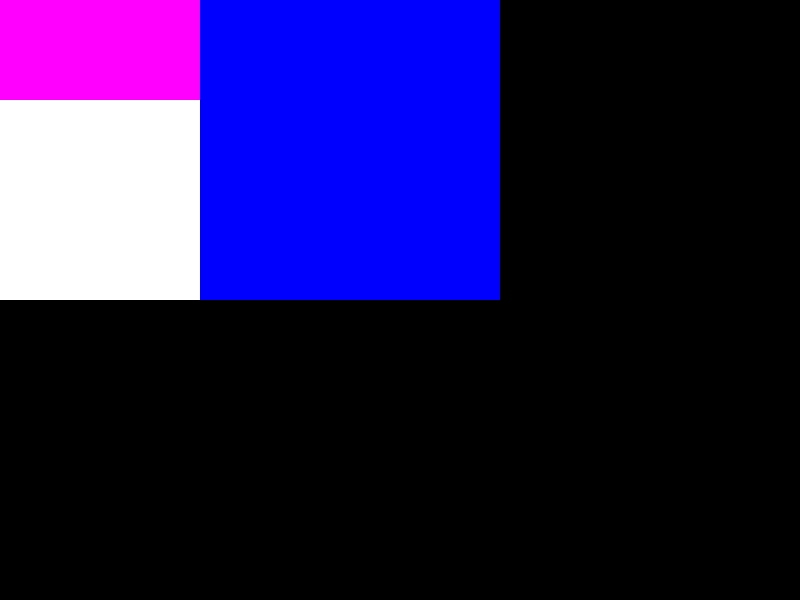
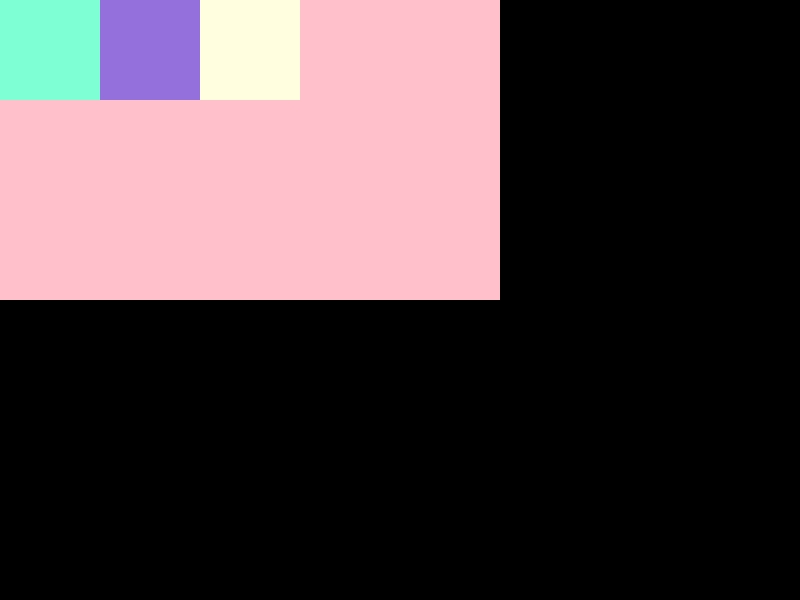
Update style setting and render result

diff --git a/week05/toy-browser/server.js b/week05/toy-browser/server.js
@@ -8,31 +8,34 @@ const server = http.createServer((req, res) => {
     res.end(
 `<html maaa=a>
   <head><style>
-      body div #myid{
-          background-color: #ff5000;
-      }
-      body div img{
-          width:30px;
-          background-color: #ff1111;
-      }
       #container{
         width:500px;
         height:300px;
         display:flex;
-        background-color: rgb(255,255,255);
+        background-color: rgb(255,192,203);
       }
-      #container #myid{
-        width:200px;
+      div#container div{
+        width:100px;
         height:100px;
-        background-color: rgb(255,0,255);
       }
-      #container .c1{
+      div#container>div#myid{
+        background-color: rgb(127,255,212);
+      }
+      div#container div.c1{
         flex:1;
-        background-color: rgb(0,0,255);
+        height:100px;
+        background-color: rgb(255,255,224);
       }
+      div#container>div[data-set=purple]{
+        width:150px;
+        height:130px;
+        background-color: rgb(147,112,219);
+      }
+      
   </style></head>
   <body><div id="container">
     <div id="myid"></div>
+    <div data-set="purple"></div>
     <div class="c1"></div>
   </div></body>
 </html>`
@@ -40,4 +43,3 @@ const server = http.createServer((req, res) => {
   });
 
 server.listen(8088)
-// <img  class="second-img"/>
